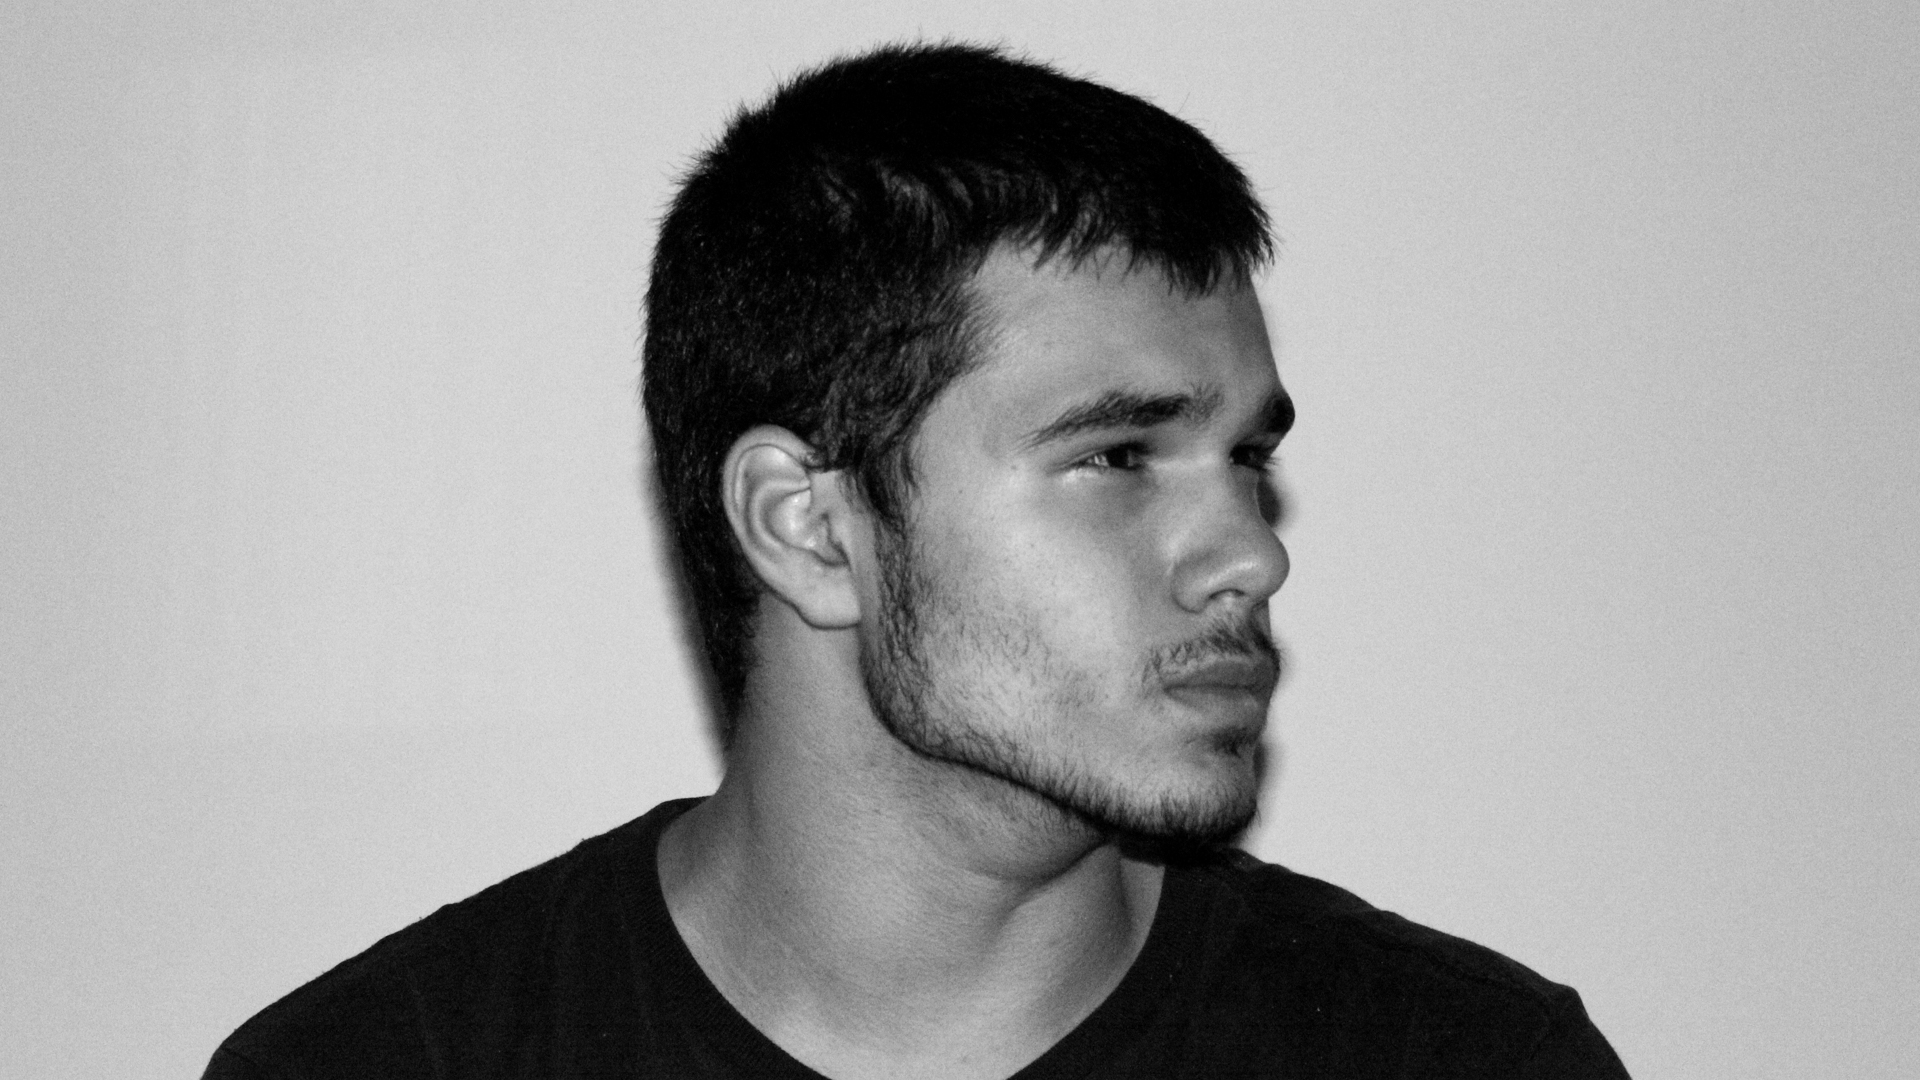
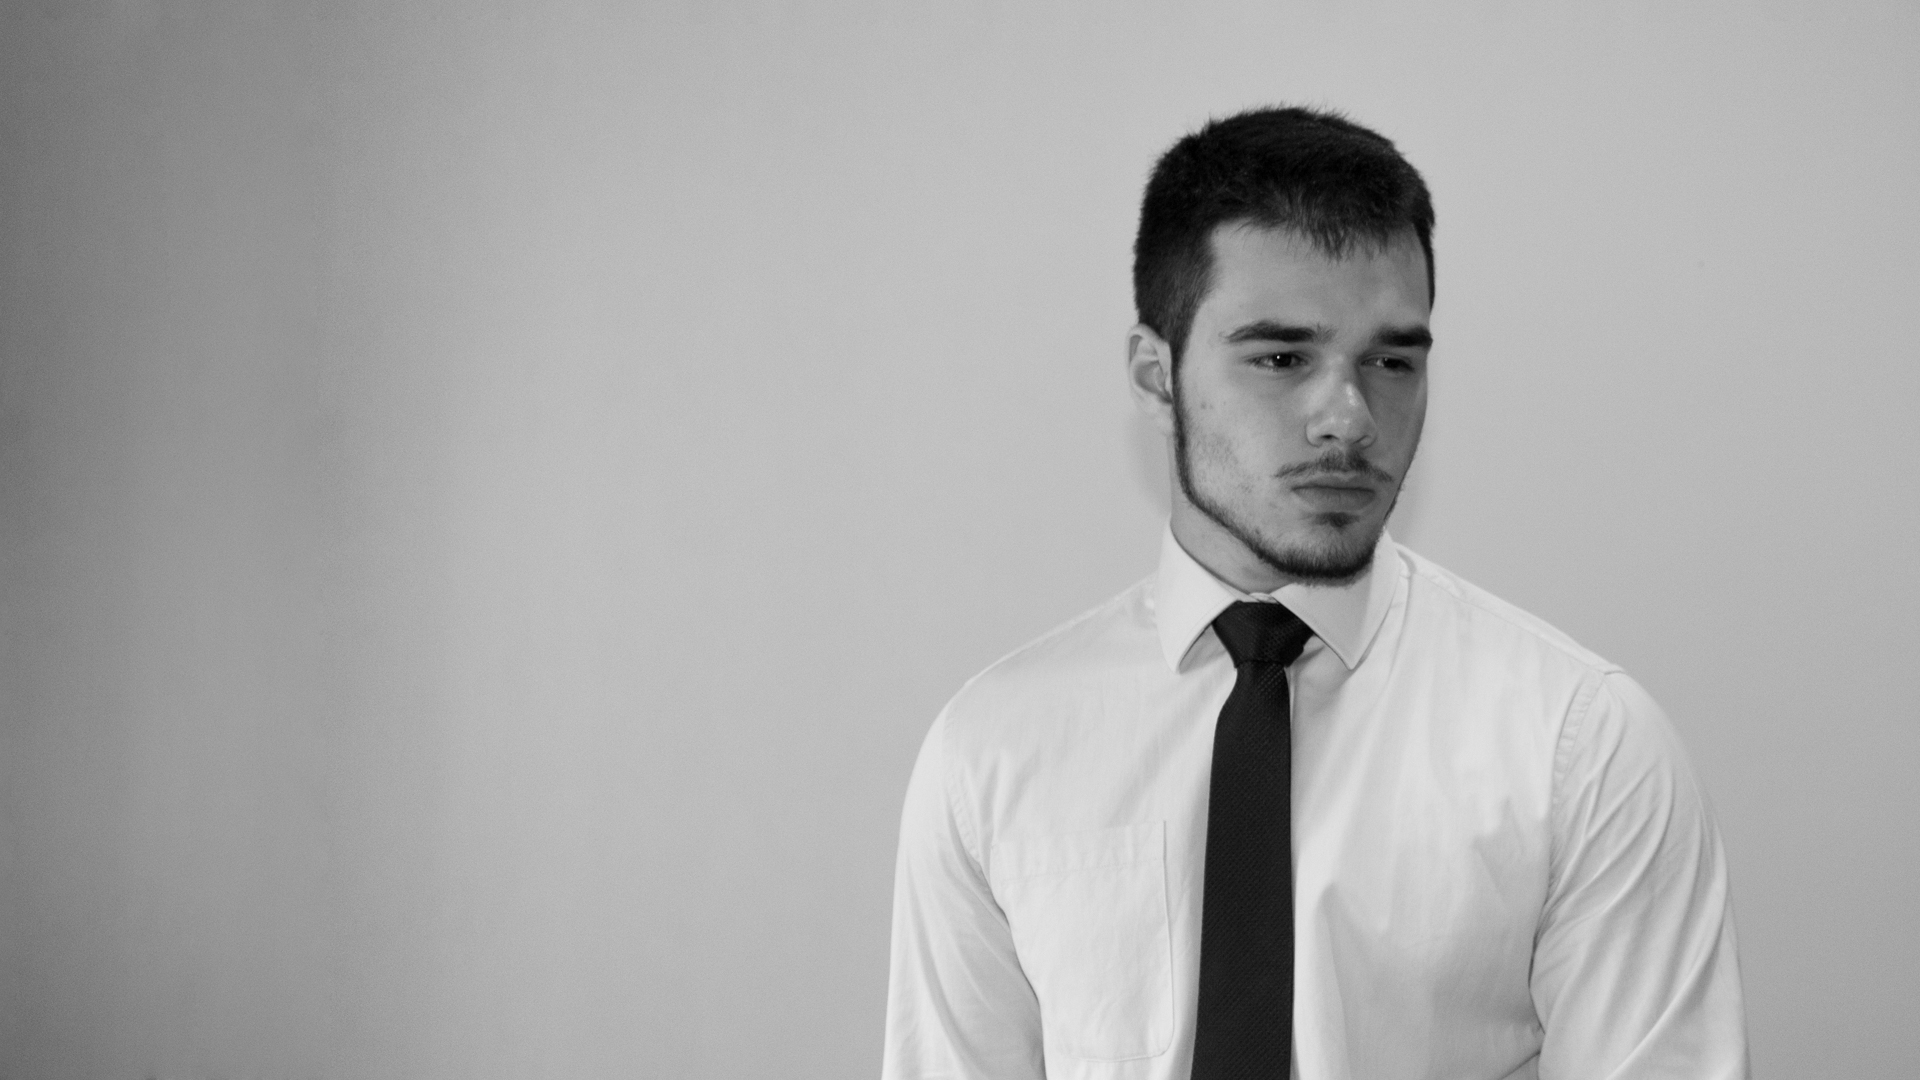
About
Feita aba about, já responsiva, tirada sidebar das paginas que não são home

diff --git a/toTumblrAbout.html b/toTumblrAbout.html
@@ -103,44 +103,9 @@
 		}
 
 
-	/*Sidebar*/
-		
-		.sidebar-container {
-			position: fixed;
-			top:30%;
-			right:1%;
-			height:fit-content;
-			display: flex;
-		}
-
-		.sidebar-list {
-			margin:auto;
-			display: flex;
-			flex-direction: column;
-			padding:0;
-
-		}
-
-		.sidebar-list-unit {
-			justify-content: space-between;
-			list-style-type: none;
-			margin:6px auto;
-
-		}
-		.sidebar-img {
-			width:45px;
-		}
-		.sidebar-social-unit-link {
-			justify-content: center;
-		}
 
 
-		.side-icon-style {
-			color:white;
-		}
-
-
-	/*Pessoas*/
+	/*About*/
 		html,body {
 			background-color: white;
 			width:100%;
@@ -156,7 +121,7 @@
 			display: flex;
 			flex-direction: column;
 
-			background-image: url(https://i.imgur.com/W7bN64z.jpg);
+			background-image: url(https://i.imgur.com/8lL4mVe.jpg);
 			background-attachment: fixed;
 		    background-position: center;
 		    background-repeat: no-repeat;
@@ -176,29 +141,38 @@
 			letter-spacing: 12px;
 		}
 
-		.gallery-frame {
+		.about-description-frame {
 			display: flex;
-			justify-content: ;
-			flex-wrap: wrap;
+			background-color: rgb(245,245,245);
+			align-items: baseline;
+			justify-content: center;
+			height: -moz-available;
+			height: -webkit-fill-available;    
+
 		}
 
-		.gallery-unit {
-			margin:3px auto;
-			height:160px;
-			width:calc(25% - 6px);
-
-			transition-timing-function: linear;
-			transition: opacity 1.2s;
-			-webkit-transition: opacity 1.2s;
-			-moz-transition: opacity 1.2s;
-			-o-transition:opacity 1.2s;
-
-			opacity:1;
+		.about-description-title {
+			font-size: 47px;
+			margin-top:40px;
+			color:#777777;
+			width:200px;
+			font-weight: 600;
+			height: fit-content;
+			line-height: 46px;
 		}
 
-		.gallery-unit:hover {
-			opacity:0.3;
+		.about-description-text {
+			font-family: 'Source Sans Pro', sans-serif;
+			color:#777777;
+			font-size: 21px;
+			font-weight: 100;
+			width:300px;
+			height:500px;
+
 		}
+
+
+		
 
 		@media only screen and (max-width:680px) {
 		    .parallax-cover {
@@ -208,6 +182,21 @@
 		    .text-cover {
 		    	font-size:55px;
 			    letter-spacing: 10px;
+		    }
+		    .about-description-frame {
+		    	flex-direction: column;
+		    }
+		    .about-description-title {
+		    	font-size: 35px;
+		    	margin-left: 10%;
+		    	width:140px;
+		    	line-height: 30px;
+		    }
+		    .about-description-text {
+		    	font-size:19px;
+		    	margin-left: 15%;
+		    	width:250px;
+		    	margin-top:10px;
 		    }
 		}
 
@@ -232,9 +221,6 @@
 					$(this).addClass("navbar-active");
 			});
 
-			$(".gallery-unit").each(function() {
-				$(this).css("height",$(this).width()*2/3);
-			});
 
 		};
 
@@ -268,7 +254,6 @@
 <body>
 
 	<div class="page-container">
-        
 		<div class="parallax-cover">
 			<div href="javascript:void(0)" class="navbar-icon b" onclick="openNavbar()">
 				&#9776;
@@ -318,18 +303,18 @@
 			</ul>
 	
 			<div class="text-cover">
-				PESSOAS
+				SOBRE MIM
 			</div>
 		</div>
-		<div class="gallery-frame">	
-			<img class="gallery-unit" src="https://i.imgur.com/W7bN64z.jpg" alt="foto da galeria">
-			<img class="gallery-unit" src="https://i.imgur.com/W7bN64z.jpg" alt="foto da galeria">
-			<img class="gallery-unit" src="https://i.imgur.com/W7bN64z.jpg" alt="foto da galeria">
-			<img class="gallery-unit" src="https://i.imgur.com/W7bN64z.jpg" alt="foto da galeria">
-			<img class="gallery-unit" src="https://i.imgur.com/W7bN64z.jpg" alt="foto da galeria">
-			<img class="gallery-unit" src="https://i.imgur.com/W7bN64z.jpg" alt="foto da galeria">
-			<img class="gallery-unit" src="https://i.imgur.com/W7bN64z.jpg" alt="foto da galeria">
-			<img class="gallery-unit" src="https://i.imgur.com/W7bN64z.jpg" alt="foto da galeria">
+
+		<div class="about-description-frame b">
+			<div class="about-description-title b">
+				Fábio <span>&nbsp;</span>Amorelli
+			</div>
+			<div class="about-description-text b">
+				Fotógrafo de 16 anos que mora em Itajubá, Minas Gerais. Com o passar de meus anos, pude desenvolver habilidades em áreas diversas relacionadas à arte visual, até me encontrar na fotografia. Tenho uma paixão extrema por preto e branco e pela expressividade na fotografia. Sinta-se à vontade para entrar em contato para conhecer mais o meu estilo e motivações ou me contratar.
+
+			</div>
 		</div>
 	</div>
 

diff --git a/toTumblrLugares.html b/toTumblrLugares.html
@@ -264,29 +264,6 @@
 <body>
 
 	<div class="page-container">
-		<div class="sidebar-container b">
-            <ul class="sidebar-list">
-
-                <li class="sidebar-list-unit b">
-                    <a class="sidebar-social-unit-link" href="">
-                        <i class="fa fa-facebook side-icon-style b" style="font-size:34px"></i>
-                    </a>
-                </li>
-
-                <li class="sidebar-list-unit b">
-                    <a class="sidebar-social-unit-link" href="">
-                        <i class="fa fa-instagram side-icon-style b" style="font-size:32px"></i>
-                    </a>
-                </li>
-
-                <li class="sidebar-list-unit b">
-                    <a class="sidebar-social-unit-link" href="https://www.behance.net/amorelliff60bd">
-                        <i class="fa fa-behance side-icon-style b" style="font-size:28px"></i>
-                    </a>
-                </li>
-            </ul>
-        </div>
-        
 		<div class="parallax-cover">
 			<div href="javascript:void(0)" class="navbar-icon b" onclick="openNavbar()">
 				&#9776;
